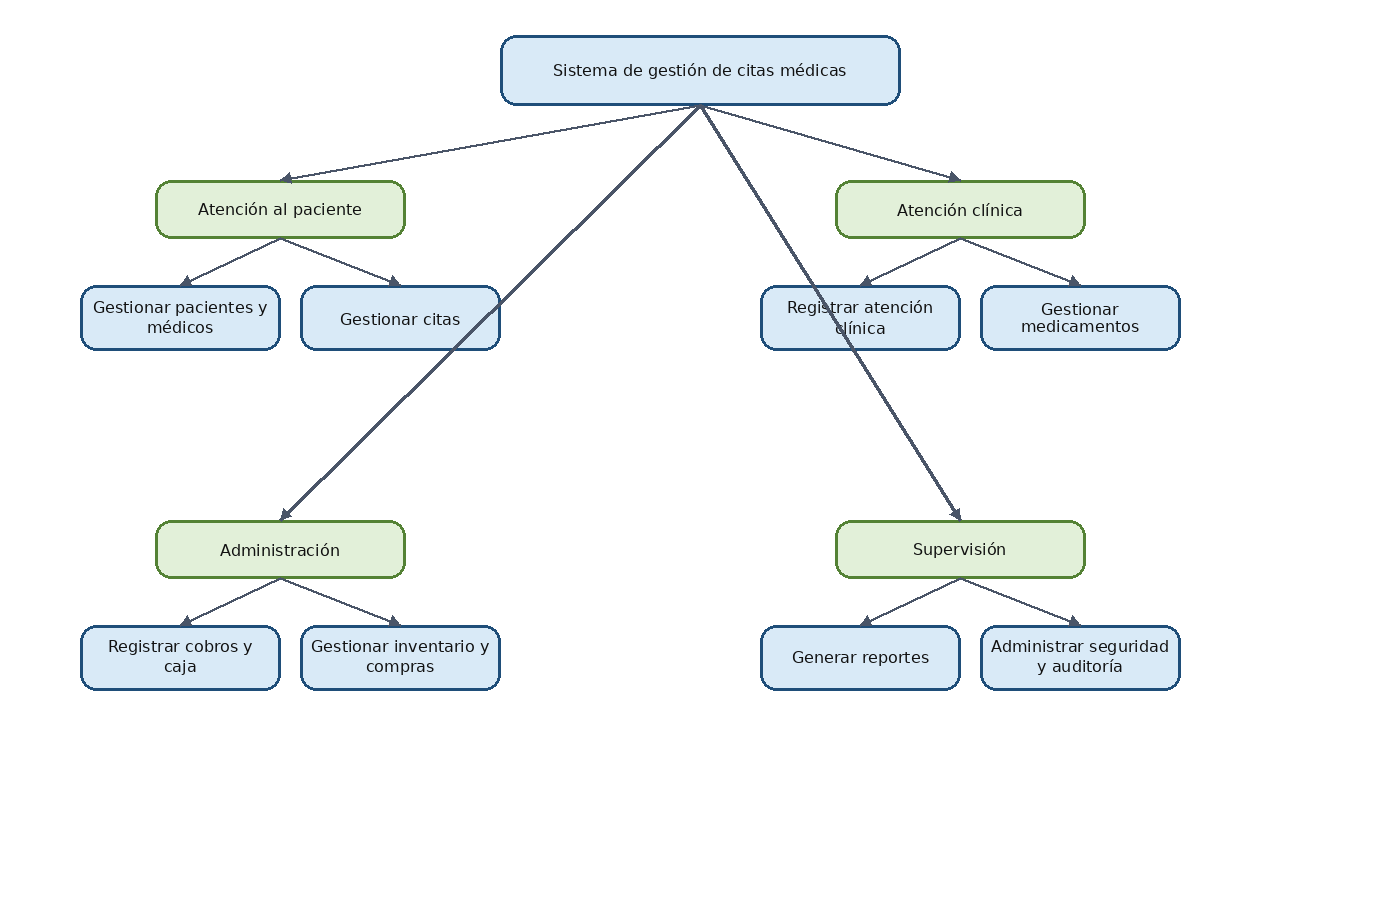
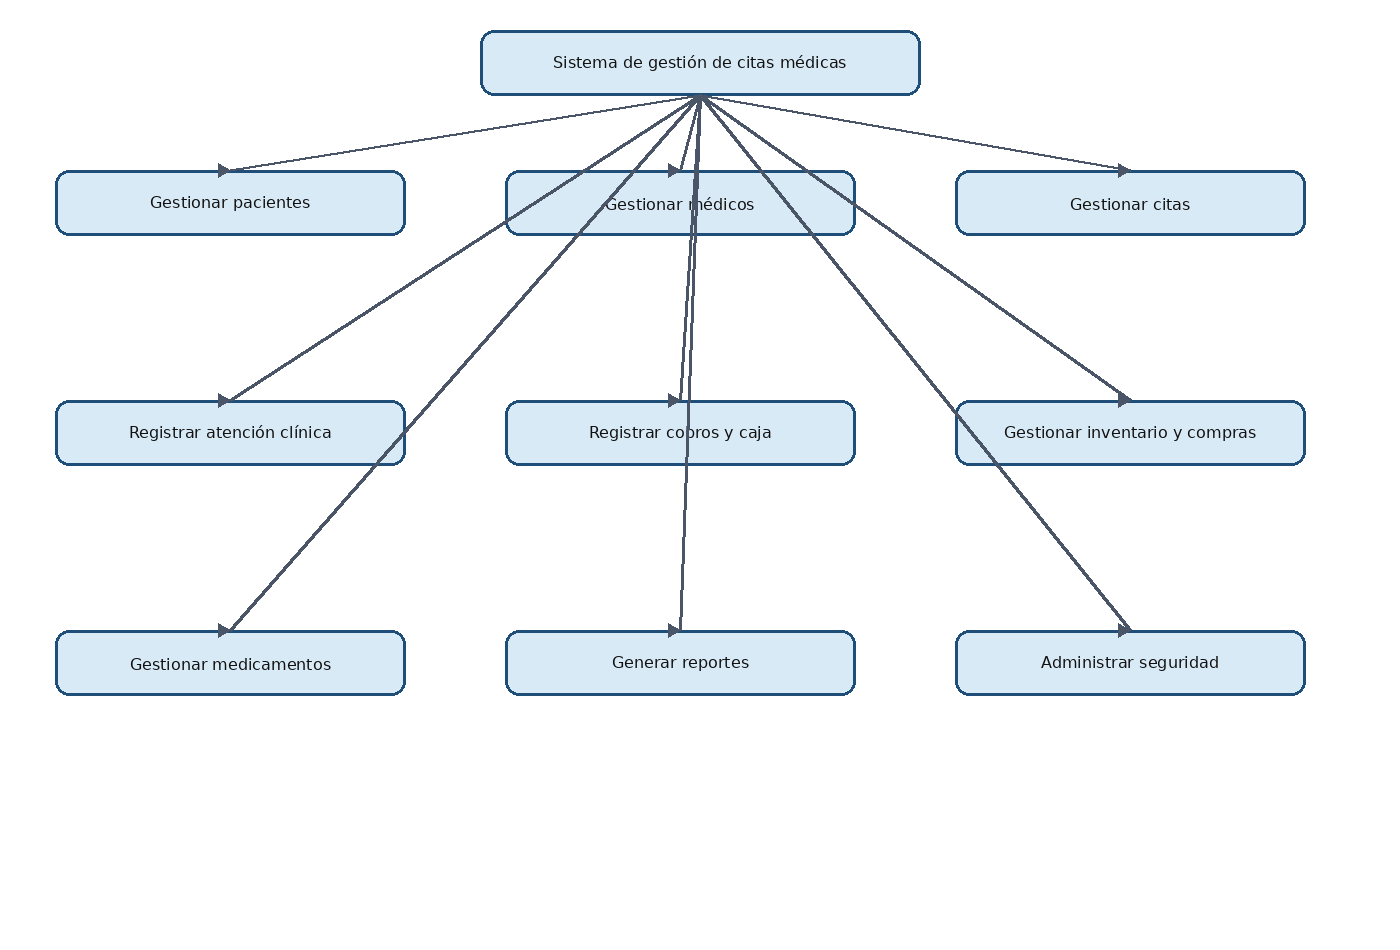
Separa pacientes y medicos en arquitectura

Changed region(s): [[0.3379, 0.0311, 0.9521, 0.5289], [0.0307, 0.5289, 0.9521, 0.7778], [0.0307, 0.1244, 0.3686, 0.5289]]

diff --git a/arquitectura_sistema.tex b/arquitectura_sistema.tex
@@ -10,7 +10,8 @@
 Las funciones se agrupan en cuatro procesos operativos: atención al paciente, gestión administrativa, control de recursos y supervisión. Las funciones principales son:
 
 \begin{enumerate}[label=\textbf{F\arabic*:},leftmargin=2cm]
-    \item \textbf{Gestionar pacientes y médicos:} registrar datos, especialidades, horarios, estados y relaciones necesarias para la atención.
+    \item \textbf{Gestionar pacientes:} registrar datos personales, contacto, antecedentes administrativos, estado y consentimiento de la persona que recibe la atención.
+    \item \textbf{Gestionar médicos:} registrar especialidad, horarios, estado profesional y disponibilidad del personal interno que presta el servicio.
     \item \textbf{Gestionar citas:} crear, consultar, modificar y cancelar citas; validar que el médico esté disponible y evitar solapamientos.
     \item \textbf{Gestionar la atención clínica:} registrar la consulta, el procedimiento realizado, la prescripción y los insumos consumidos.
     \item \textbf{Gestionar cobros y caja:} registrar el monto, medio de pago, estado del cobro y arqueo diario, respetando el cierre de caja.
@@ -22,7 +23,8 @@ Las funciones se agrupan en cuatro procesos operativos: atención al paciente, g
 
 \textbf{Secuencia general de funcionamiento:}
 \begin{enumerate}[leftmargin=1.1cm]
-    \item El paciente solicita una cita y recepción registra o localiza sus datos.
+    \item El paciente externo solicita una cita y recepción registra o localiza sus datos.
+    \item El sistema consulta la disponibilidad del médico interno antes de ofrecer el horario.
     \item El sistema consulta la agenda y rechaza los horarios que provocarían un solapamiento.
     \item El médico atiende la cita y registra la información clínica permitida.
     \item Recepción o caja registra el cobro y genera el comprobante.
@@ -46,7 +48,8 @@ Las funciones se agrupan en cuatro procesos operativos: atención al paciente, g
 
 \textbf{Componentes propuestos:}
 \begin{enumerate}[label=\textbf{C\arabic*:},leftmargin=2cm]
-    \item Pacientes y médicos.
+    \item Pacientes.
+    \item Médicos.
     \item Agenda y citas.
     \item Atención clínica.
     \item Cobros y caja.
@@ -67,7 +70,8 @@ Las funciones se agrupan en cuatro procesos operativos: atención al paciente, g
 \toprule
 \rowcolor{azulprincipal}\textcolor{white}{Componente} & \textcolor{white}{¿De qué se encarga?}\\
 \midrule
-Pacientes y médicos & Mantener expedientes administrativos, datos de contacto, especialidades, horarios, disponibilidad y estado de pacientes y profesionales. No modifica cobros ni información clínica restringida.\\
+Pacientes & Mantener los datos administrativos y de contacto del paciente externo, su estado, consentimiento y vínculo con las citas. No administra horarios médicos ni cobros.\\
+Médicos & Mantener los datos del médico interno, especialidad, horarios, disponibilidad y estado profesional. No modifica datos personales del paciente ni cobros.\\
 Agenda y citas & Crear y consultar citas, validar médico, fecha y hora, impedir solapamientos, controlar estados como Programada, Confirmada, Atendida y Cancelada, y conservar el historial.\\
 Atención clínica & Registrar la atención realizada por el médico, el procedimiento, las observaciones permitidas, la prescripción y los insumos consumidos durante la consulta.\\
 Cobros y caja & Registrar monto, fecha, medio y estado de pago; asociar el cobro a la cita; realizar el arqueo; y bloquear modificaciones después del cierre autorizado.\\
@@ -91,7 +95,8 @@ Una relación muestra cómo un componente utiliza información o servicios de ot
 
 \textbf{Relaciones principales:}
 \begin{enumerate}[label=\textbf{R\arabic*:},leftmargin=2cm]
-    \item Pacientes y médicos proporciona identidades y horarios a Agenda y citas.
+    \item Pacientes proporciona la identidad y los datos administrativos del paciente externo a Agenda y citas.
+    \item Médicos proporciona especialidad, horarios y disponibilidad del médico interno a Agenda y citas.
     \item Agenda y citas entrega la cita programada a Atención clínica y Cobros y caja.
     \item Atención clínica envía los consumos a Inventario y compras.
     \item Atención clínica consulta Medicamentos y prescripciones para validar recetas.
@@ -114,12 +119,12 @@ Una relación muestra cómo un componente utiliza información o servicios de ot
 
 \section{Incorporación de los usuarios}
 
-Los usuarios representan personas o roles que interactúan con el sistema. No todos tienen los mismos permisos, porque una clínica debe separar las tareas de recepción, atención médica, administración y supervisión.
+Los usuarios representan personas o roles que interactúan con el sistema. Se distingue entre entidades externas e internas: el paciente es externo a la organización y solicita o recibe servicios; el médico es un usuario interno de la clínica y presta el servicio bajo permisos profesionales. No todos tienen los mismos permisos, porque la clínica debe separar recepción, atención médica, administración y supervisión.
 
 \begin{enumerate}[label=\textbf{Usuario \arabic*:},leftmargin=2.4cm]
-    \item \textbf{Paciente:} solicita la cita, proporciona datos, recibe confirmaciones y consulta la información que la clínica le autorice.
+    \item \textbf{Paciente — entidad externa:} solicita la cita, proporciona sus datos, recibe confirmaciones y consulta únicamente la información que la clínica le autorice. No administra horarios, inventario ni usuarios.
     \item \textbf{Recepcionista:} registra pacientes, agenda y modifica citas, consulta disponibilidad, registra cobros autorizados y realiza el arqueo operativo.
-    \item \textbf{Médico:} consulta su agenda, registra la atención, emite prescripciones y declara los insumos utilizados.
+    \item \textbf{Médico — usuario interno:} consulta su agenda institucional, registra la atención, emite prescripciones y declara los insumos utilizados. No administra pacientes fuera de sus funciones clínicas ni modifica cobros.
     \item \textbf{Administrador:} administra catálogos, usuarios, permisos, inventario, compras, parámetros y reportes.
     \item \textbf{Gerente general:} consulta reportes consolidados, revisa indicadores y supervisa ingresos, agenda e inventario sin modificar registros clínicos.
 \end{enumerate}
@@ -143,7 +148,8 @@ La base de datos es el componente que conserva la información operativa y permi
 
 \textbf{Entidades principales:}
 \begin{itemize}
-    \item \textbf{Paciente y Médico:} datos administrativos y profesionales.
+    \item \textbf{Paciente:} entidad externa con datos personales, contacto, consentimiento y estado.
+    \item \textbf{Médico:} entidad interna con especialidad, horarios, disponibilidad y estado profesional.
     \item \textbf{Usuario y Rol:} credenciales y permisos.
     \item \textbf{Cita:} fecha, hora, médico, paciente, servicio y estado.
     \item \textbf{Atención y Prescripción:} resultado de la consulta y medicamentos prescritos.
@@ -183,7 +189,7 @@ La arquitectura propuesta organiza el sistema en capas para separar la interfaz,
 
 \textbf{Flujo de una operación ejemplo — agendar una cita:}
 \begin{enumerate}[leftmargin=1.1cm]
-    \item Recepción captura paciente, médico, fecha y hora en la interfaz.
+    \item Recepción captura el paciente externo, el médico interno, la fecha y la hora en la interfaz.
     \item La capa de aplicación solicita al dominio validar disponibilidad.
     \item El dominio aplica la regla de no solapamiento.
     \item Persistencia consulta y guarda la cita si la validación es correcta.
